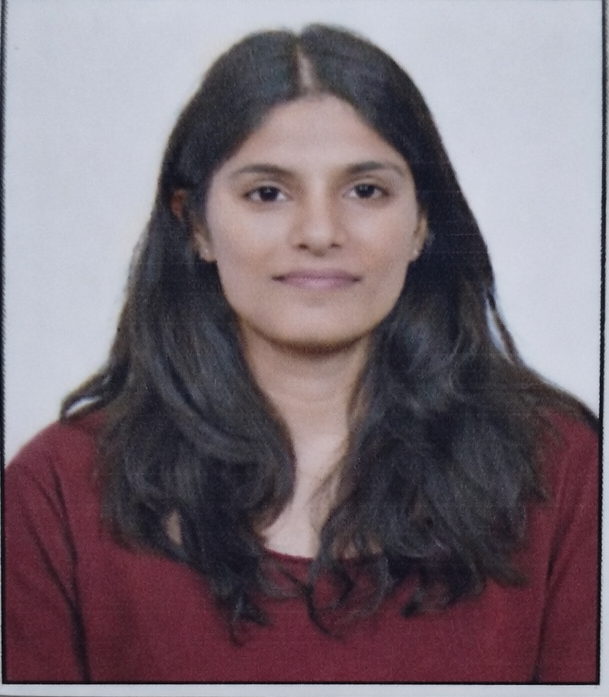
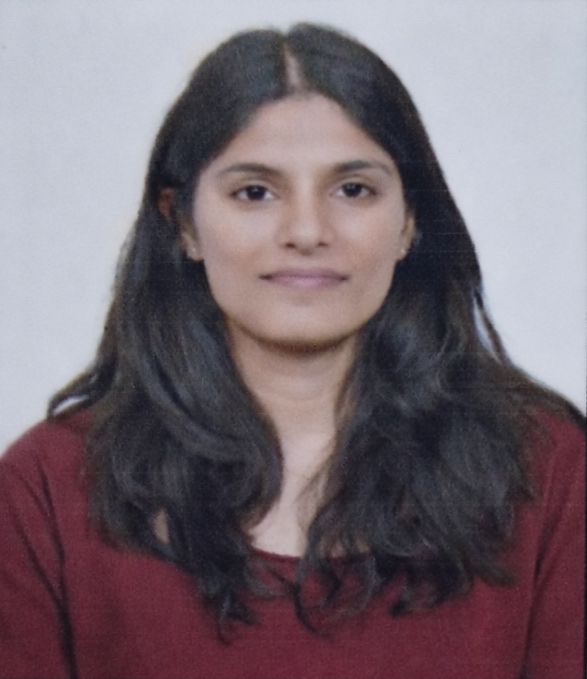
Changes in Home, developer and event page

diff --git a/src/pages/Developers.jsx b/src/pages/Developers.jsx
@@ -73,7 +73,7 @@ const developerData = [
     email: "avdheshbhadoriya090@gmail.com",
     linkedin: "https://www.linkedin.com/in/avdhesh-bhadoriya/",
     category: "Backend Developers",
-    image: OfficeCatMan,
+    image: avdhesh,
   },
 //   {
 //     id: 8,
@@ -102,7 +102,7 @@ const developerData = [
     email: "avdheshbhadoriya090@gmail.com",
     linkedin: "https://www.linkedin.com/in/avdhesh-bhadoriya/",
     category: "DevOps Engineer",
-    image: OfficeCatMan,
+    image: avdhesh,
   },
 
   {
@@ -264,7 +264,7 @@ export default function Developers() {
                             <p className="text-xs text-gray-500 mb-1 truncate">
                               {dev.department}
                             </p>
-                            <div className="flex items-center justify-center sm:justify-start gap-1.5 sm:gap-2 hover:text-blue-600 transition-colors cursor-pointer break-all">
+                            <div className="flex items-center justify-center sm:justify-start gap-1 sm:gap-1 hover:text-blue-600 transition-colors cursor-pointer break-all">
                               <Mail className="w-3 h-3 sm:w-3.5 sm:h-3.5 shrink-0" />
                               <span className="text-xs break-all">{dev.email}</span>
                             </div>
@@ -281,7 +281,7 @@ export default function Developers() {
                                 </a>
                               </div>
                             )}
-                            <div className="flex items-center justify-center sm:justify-start gap-1.5 sm:gap-2 hover:text-blue-600 transition-colors cursor-pointer truncate">
+                            <div className="flex items-center justify-center sm:justify-start gap-1 sm:gap-1 hover:text-blue-600 transition-colors cursor-pointer truncate">
                               {/* <Phone className="w-3.5 h-3.5 shrink-0" /> */}
                               <span className="text-xs truncate">
                                 {dev.phone}

diff --git a/src/components/Events.jsx b/src/components/Events.jsx
@@ -13,7 +13,7 @@ const Events = memo(function Events() {
   return (
     <section
       id="events"
-      className="py-8 sm:py-16 pt-6 sm:pt-12 text-white scroll-mt-24"
+      className="py-8 sm:py-16 pt-2 sm:pt-12 text-white scroll-mt-24"
     >
       <div className="max-w-[1440px] mx-auto px-3 sm:px-4 md:px-8">
         <div className="text-center mb-4 sm:mb-8">
@@ -79,22 +79,21 @@ const Events = memo(function Events() {
             ...imagesTop,
           ].map((img, index) => (
             <motion.div
-  key={index}
-  className="relative min-w-[160px] xs:min-w-[200px] sm:min-w-[280px] md:min-w-[350px] lg:min-w-[400px]
-             h-28 xs:h-32 sm:h-48 md:h-64 lg:h-72
+              key={index}
+              className="relative min-w-[240px] xs:min-w-[280px] sm:min-w-[320px] md:min-w-[350px] lg:min-w-[450px]
+             h-40 xs:h-48 sm:h-48 md:h-64 lg:h-72
              cursor-pointer rounded-lg sm:rounded-xl md:rounded-2xl
              overflow-hidden shadow-xl flex-shrink-0"
-  whileHover={{ scale: 1.05 }}
-  transition={{ duration: 1, ease: "easeOut" }}
->
-  <img
-    src={img}
-    alt={`Event ${index}`}
-    loading="lazy"
-    className="absolute inset-0 w-full h-full object-cover"
-  />
-</motion.div>
-
+              whileHover={{ scale: 1.05 }}
+              transition={{ duration: 1, ease: "easeOut" }}
+            >
+              <img
+                src={img}
+                alt={`Event ${index}`}
+                loading="lazy"
+                className="absolute inset-0 w-full h-full object-cover"
+              />
+            </motion.div>
           ))}
         </div>
       </div>
